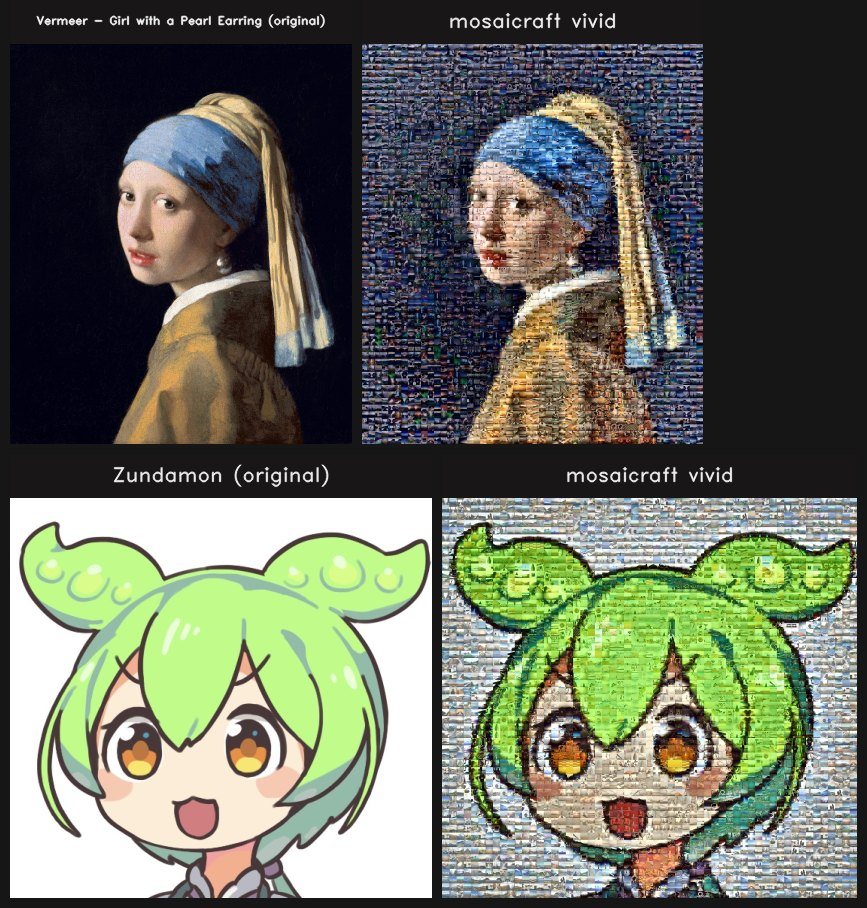
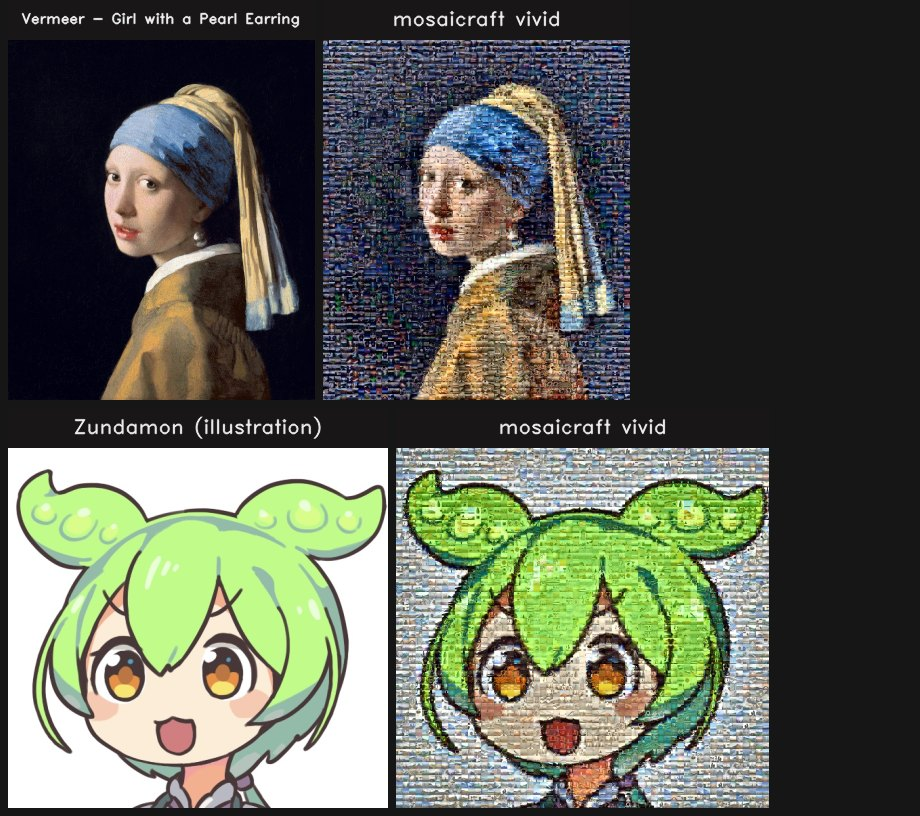
fix: post-audit fixes from 3-agent review
- Fix README compare_tools example missing .jpg extension
- Remove --target zundamon from script choices (not auto-downloadable)
- Fix MANIFEST.json totals.bytes (was stale 4-painting sum)
- Fix download_demo_assets.py docstring ("four paintings" → singular)
- Regenerate target_comparison.jpg at 920px width (was 867px, too narrow)
- Remove duplicate --quick line in README

diff --git a/scripts/download_demo_assets.py b/scripts/download_demo_assets.py
@@ -1,6 +1,6 @@
 """Download public-domain demo assets for mosaicraft README figures.
 
-Fetches four iconic public-domain paintings from Wikimedia Commons and a
+Fetches a public-domain painting from Wikimedia Commons and a
 pool of ~1024 CC0 photographs from picsum.photos (Unsplash-powered), then
 writes ``docs/assets/MANIFEST.json`` with per-file SHA256 and license
 metadata so the download is bit-exact reproducible.
@@ -47,13 +47,10 @@ MAX_TILE_WORKERS = 8
 
 # --- public-domain paintings from Wikimedia Commons ------------------------
 #
-# All four are pre-1929 originals whose copyright has long expired.
-# Wikimedia URLs resolved via commons.wikimedia.org/w/api.php on 2026-04-09;
+# Pre-1929 original whose copyright has long expired.
+# Wikimedia URL resolved via commons.wikimedia.org/w/api.php on 2026-04-09;
 # SHA256 is recomputed at download time and pinned in MANIFEST.json.
-#
-# We fetch 2048px thumbnails instead of originals because the Van Gogh
-# "Google Art Project" master is ~700 MB. 2048px is plenty for README hero
-# images and keeps the total demo payload under ~10 MB.
+# We fetch 2048px thumbnails instead of originals to keep the payload small.
 
 PAINTINGS: list[dict[str, Any]] = [
     {

diff --git a/benchmarks/compare_tools.py b/benchmarks/compare_tools.py
@@ -577,7 +577,7 @@ def parse_args() -> argparse.Namespace:
     p.add_argument(
         "--target",
         default="pearl_earring.jpg",
-        choices=["pearl_earring.jpg", "zundamon.jpg"],
+        choices=["pearl_earring.jpg"],
         help="painting to use as the comparison target",
     )
     p.add_argument("--grid", type=int, default=40, help="grid side length (cells)")

diff --git a/scripts/generate_readme_figures.py b/scripts/generate_readme_figures.py
@@ -56,7 +56,6 @@ MANIFEST_PATH = ASSETS_DIR / "MANIFEST.json"
 # ``scripts/download_demo_assets.py``'s ``PAINTINGS`` list.
 TARGET_CHOICES = {
     "pearl_earring": "pearl_earring.jpg",
-    "zundamon": "zundamon.jpg",
 }
 
 

diff --git a/README.md b/README.md
@@ -260,10 +260,9 @@ python scripts/download_demo_assets.py --verify-only   # SHA256 integrity check
 # 2. Render figures.
 python scripts/generate_readme_figures.py
 python scripts/generate_readme_figures.py --quick                 # faster iteration
-python scripts/generate_readme_figures.py --target zundamon       # swap target
 
 # 3. Run the OSS comparison benchmark.
-python benchmarks/compare_tools.py --target pearl_earring --grid 40
+python benchmarks/compare_tools.py --target pearl_earring.jpg --grid 40
 ```
 
 SHA256 and license metadata for every bootstrapped file live in [`docs/assets/MANIFEST.json`](https://github.com/hinanohart/mosaicraft/blob/main/docs/assets/MANIFEST.json). The raw image files are not committed; the manifest is.
